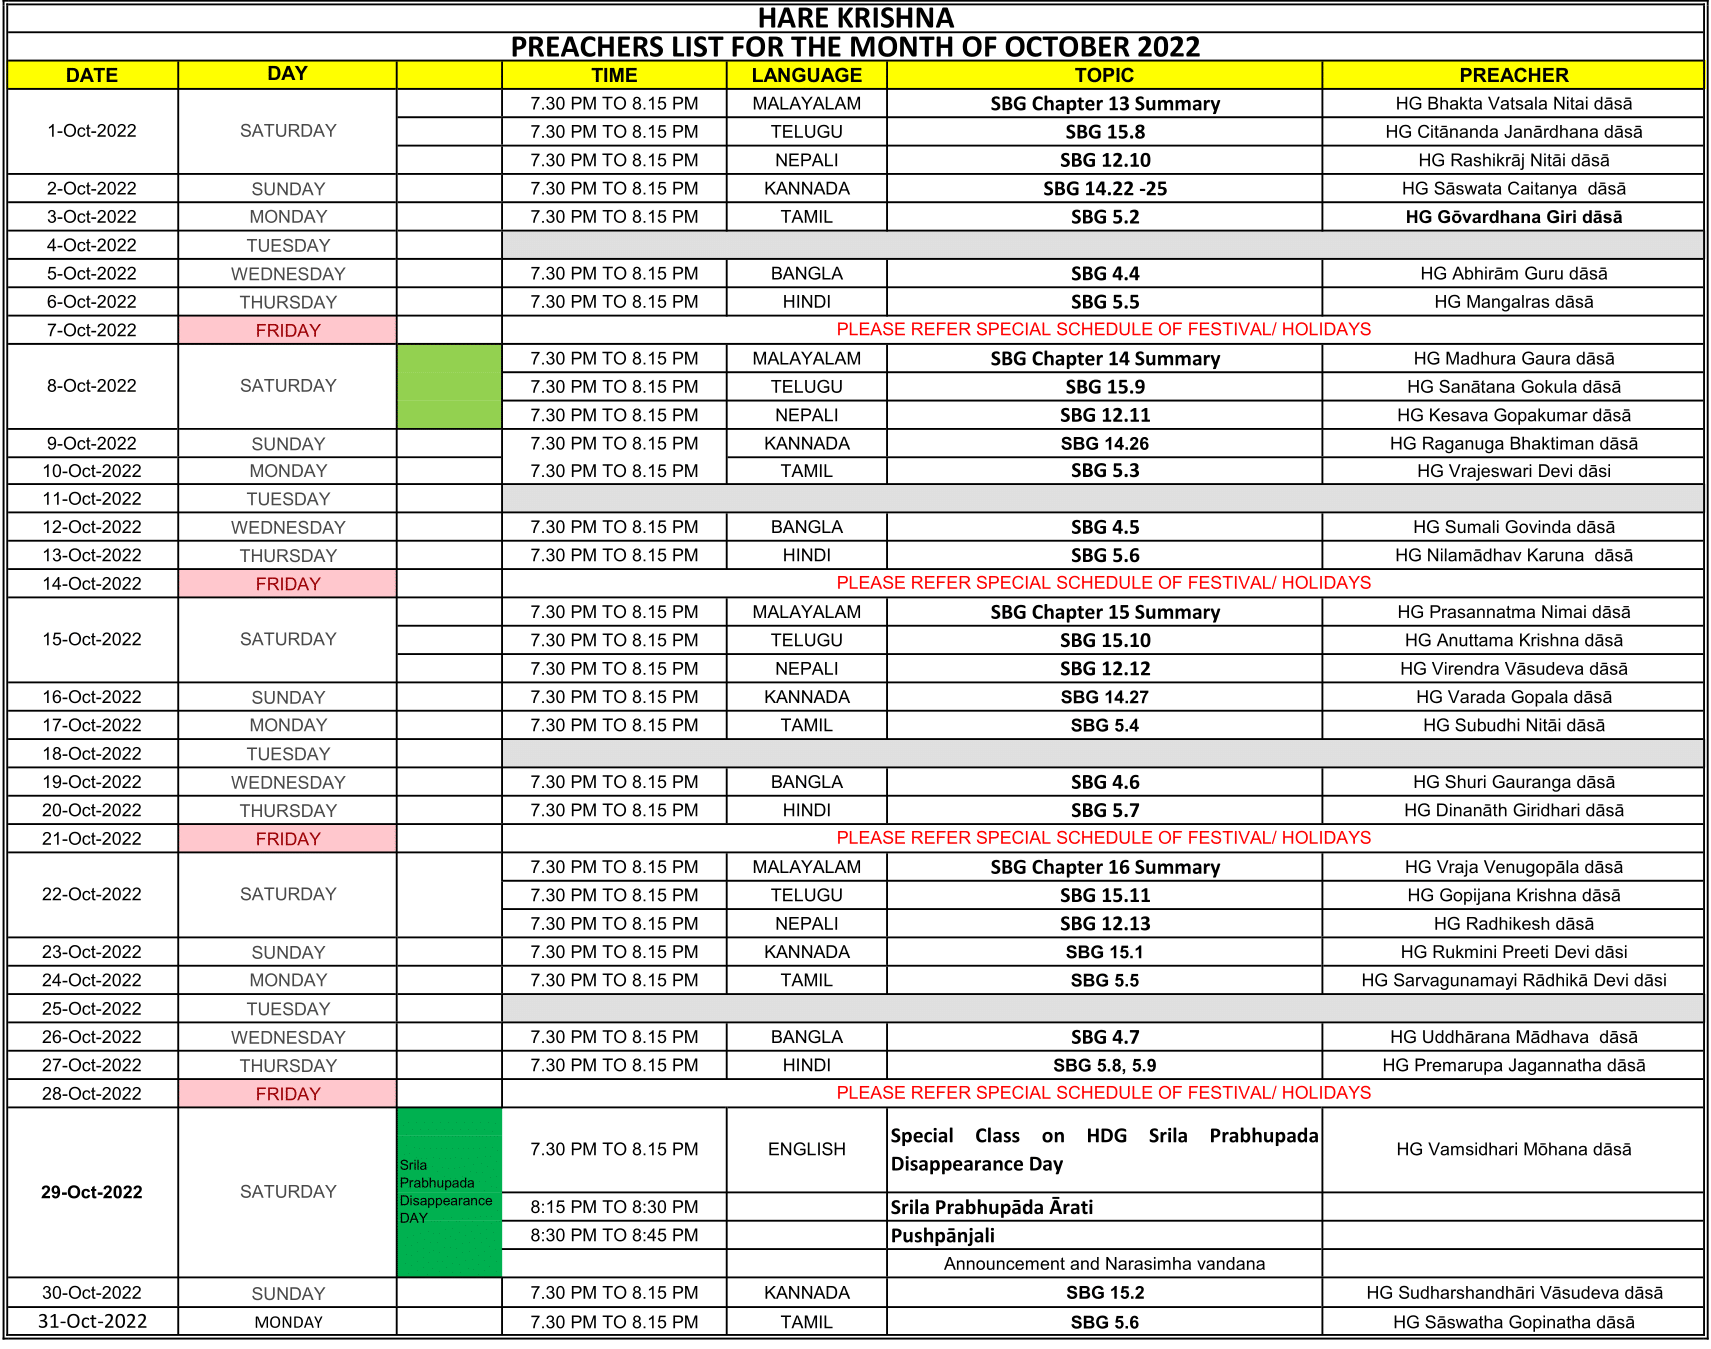
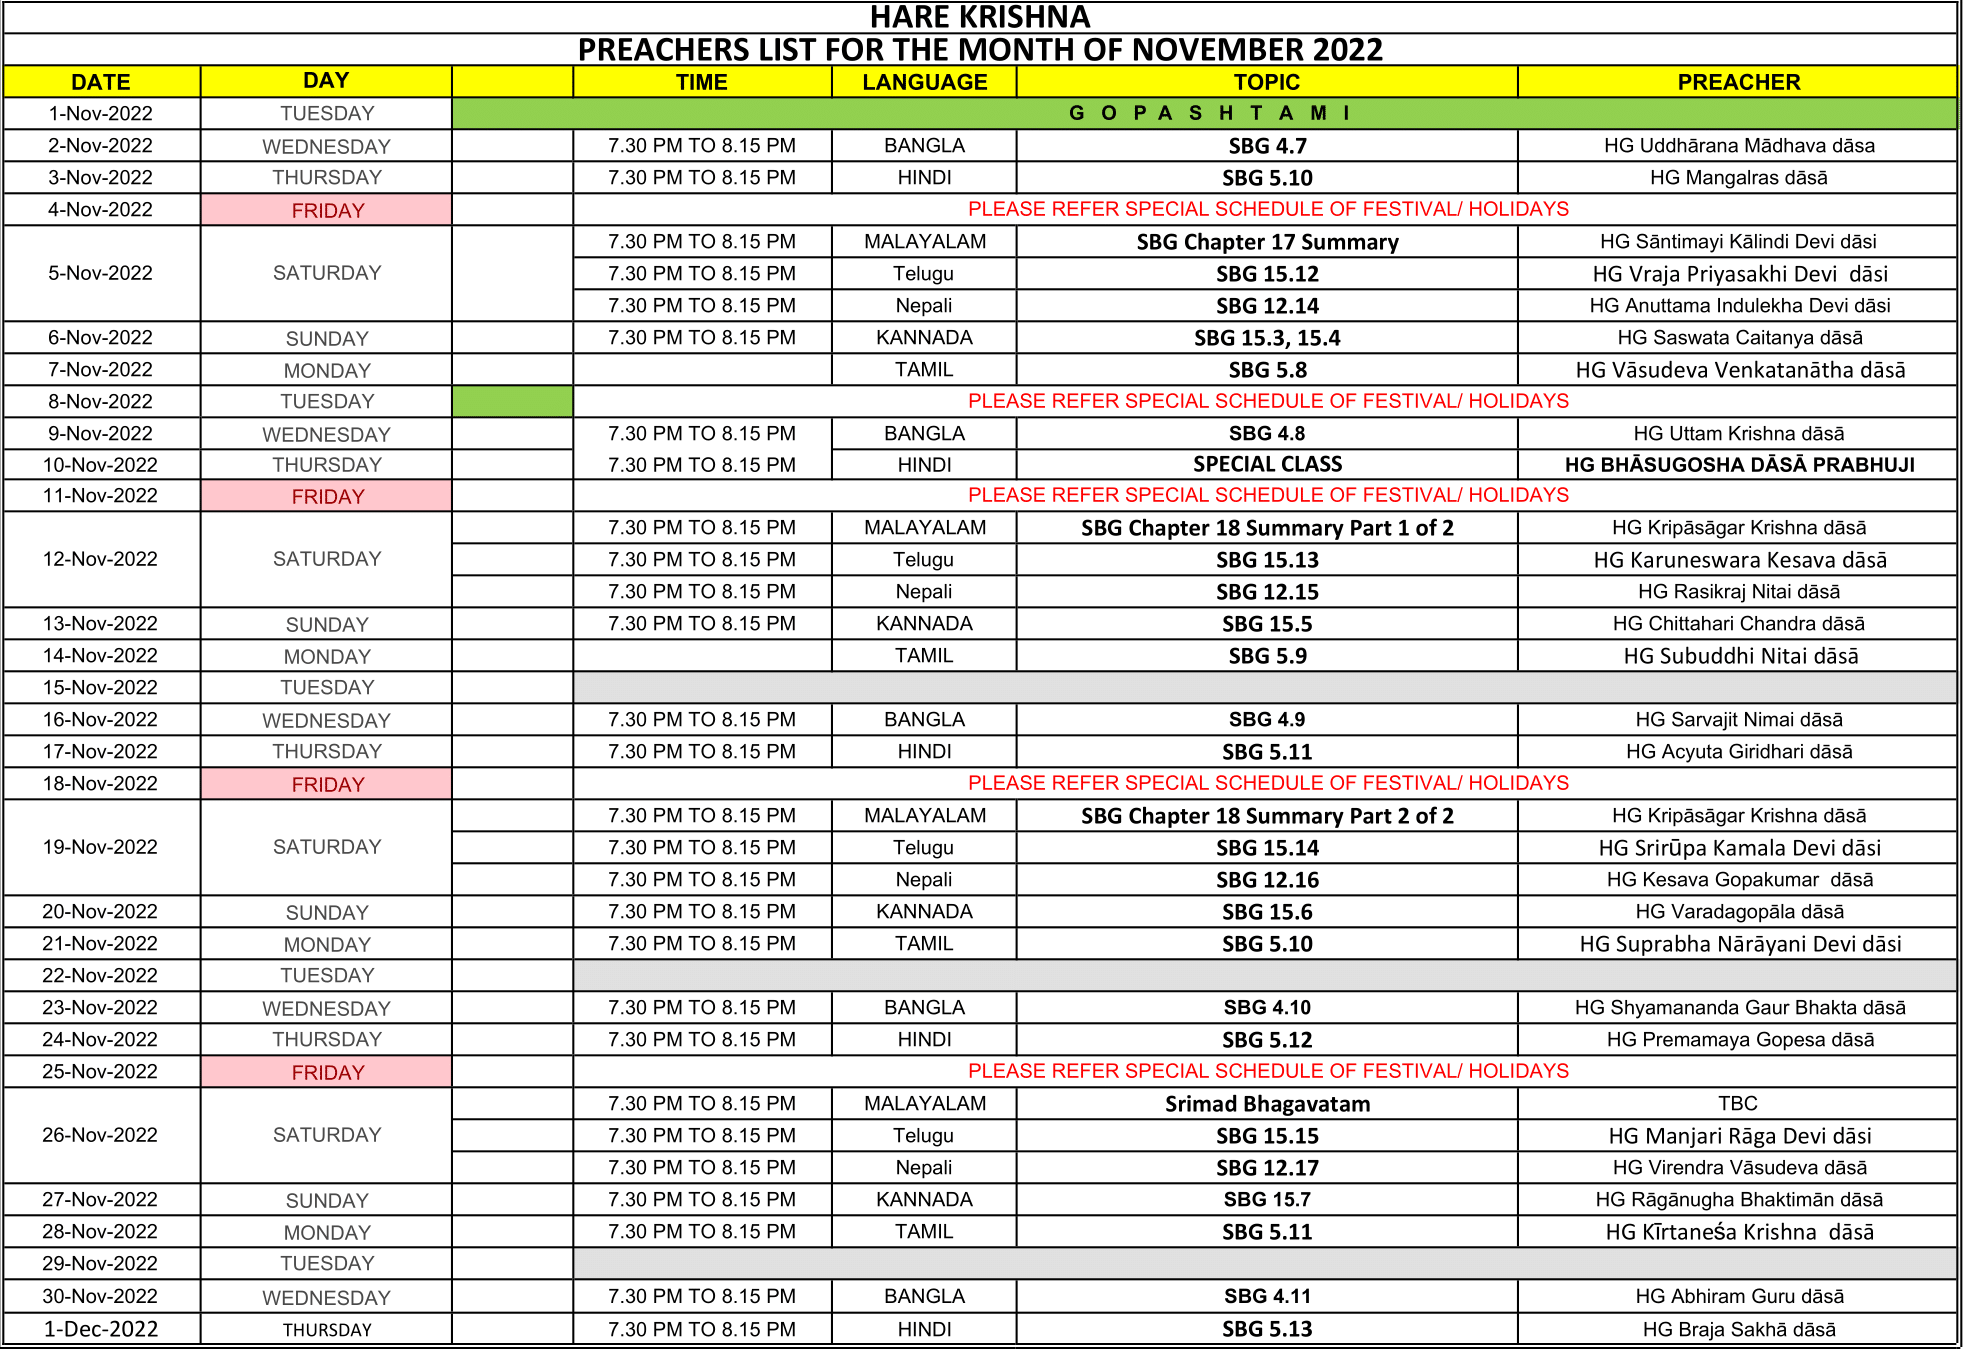
added new month list

diff --git a/schedule-festival.html b/schedule-festival.html
@@ -1,0 +1,295 @@
+<!DOCTYPE html>
+<html lang="en">
+  <head>
+    <meta charset="utf-8" />
+    <title>Schedule</title>
+    <meta content="width=device-width, initial-scale=1.0" name="viewport" />
+    <meta content="" name="keywords" />
+    <meta content="" name="description" />
+
+    <!-- Favicon -->
+    <link href="img/iskcon-fav-icon.png" rel="icon" />
+
+    <!-- Google Web Fonts -->
+    <link rel="preconnect" href="https://fonts.googleapis.com" />
+    <link rel="preconnect" href="https://fonts.gstatic.com" crossorigin />
+    <link
+      href="https://fonts.googleapis.com/css2?family=Open+Sans:wght@400;500&family=Roboto:wght@500;700;900&display=swap"
+      rel="stylesheet"
+    />
+    <link
+      href="https://fonts.googleapis.com/css?family=Dancing+Script:regular,500,600,700"
+      rel="stylesheet"
+    />
+    <!-- Icon Font Stylesheet -->
+    <link
+      href="https://cdnjs.cloudflare.com/ajax/libs/font-awesome/5.10.0/css/all.min.css"
+      rel="stylesheet"
+    />
+    <link
+      href="https://cdn.jsdelivr.net/npm/bootstrap-icons@1.4.1/font/bootstrap-icons.css"
+      rel="stylesheet"
+    />
+
+    <!-- Libraries Stylesheet -->
+    <link href="lib/animate/animate.min.css" rel="stylesheet" />
+    <link href="lib/owlcarousel/assets/owl.carousel.min.css" rel="stylesheet" />
+    <link href="lib/lightbox/css/lightbox.min.css" rel="stylesheet" />
+
+    <!-- Customized Bootstrap Stylesheet -->
+    <link href="css/bootstrap.min.css" rel="stylesheet" />
+
+    <!-- Template Stylesheet -->
+    <link href="css/style.css" rel="stylesheet" />
+  </head>
+
+  <body>
+    <!-- Spinner Start -->
+    <div
+      id="spinner"
+      class="show bg-white position-fixed translate-middle w-100 vh-100 top-50 start-50 d-flex align-items-center justify-content-center"
+    >
+      <div
+        class="spinner-border text-primary"
+        style="width: 3rem; height: 3rem"
+        role="status"
+      >
+        <span class="sr-only">Loading...</span>
+      </div>
+    </div>
+    <!-- Spinner End -->
+
+    <!-- Navbar Start -->
+    <nav class="navbar navbar-expand-lg bg-white navbar-light sticky-top p-0">
+      <a
+        href="index.html"
+        class="navbar-brand d-flex align-items-center border-end px-4 px-lg-5"
+      >
+        <img
+          src="img\iskcon-fav-icon.png"
+          style="height: 35px; width: 35px"
+        />&nbsp;
+        <h2 class="m-0 text-primary">ISKCON Bahrain</h2>
+      </a>
+      <button
+        type="button"
+        class="navbar-toggler me-4"
+        data-bs-toggle="collapse"
+        data-bs-target="#navbarCollapse"
+      >
+        <span class="navbar-toggler-icon"></span>
+      </button>
+      <div class="collapse navbar-collapse" id="navbarCollapse">
+        <div class="navbar-nav ms-auto p-4 p-lg-0">
+          <a href="iskcon.html" class="nav-item nav-link">about</a>
+          <a href="community.html" class="nav-item nav-link">Community</a>
+
+          <div class="nav-item dropdown">
+            <a
+              href="#"
+              class="nav-link dropdown-toggle"
+              data-bs-toggle="dropdown"
+              >Vedic Study</a
+            >
+            <div class="dropdown-menu bg-light m-0">
+              <a href="vedic.html" class="dropdown-item">For Adults</a>
+              <a href="youth.html" class="dropdown-item">For Youth</a>
+            </div>
+          </div>
+
+          <div class="nav-item dropdown">
+            <a
+              href="#"
+              class="nav-link dropdown-toggle"
+              data-bs-toggle="dropdown"
+              >Events</a
+            >
+            <div class="dropdown-menu bg-light m-0">
+              <a href="festival.html" class="dropdown-item">Festival</a>
+              <a href="mantra.html" class="dropdown-item"
+                >Meditation and Mantra</a
+              >
+            </div>
+          </div>
+
+          <!-- <a href="gallery.html" class="nav-item nav-link">Gallery</a> -->
+          <a href="donation.html" class="nav-item nav-link"
+            >Voluntary Service</a
+          >
+          <a href="contact.html" class="nav-item nav-link">Contact</a>
+        </div>
+      </div>
+    </nav>
+    <!-- Navbar End -->
+
+    <!-- Page Header Start -->
+    <div
+      class="container-fluid page-header py-5 mb-5"
+      style="
+        background: rgb(255, 255, 255);
+        background: linear-gradient(
+          174deg,
+          rgba(255, 255, 255, 1) 27%,
+          rgba(247, 201, 115, 1) 100%
+        );
+      "
+    >
+      <div class="container py-3">
+        <h1 class="display-3 mb-3 animated slideInDown" style="color: #ff6100">
+          Vedic Knowledge for Adults
+        </h1>
+      </div>
+    </div>
+    <!-- Page Header End -->
+
+    <!-- About Start -->
+    <div class="container-fluid bg-light overflow-hidden my-5 px-lg-0">
+      <div class="container about px-lg-0">
+        <div class="row g-0 mx-lg-0">
+          <div
+            class="ps-lg-0 wow fadeIn"
+            data-wow-delay="0.1s"
+            style="min-height: 1900px"
+          >
+            <div class="position-relative h-100">
+              <img
+                class="position-absolute img-fluid"
+                src="img/calendar/now/list-fest.png"
+                style="object-fit: contain"
+                alt=""
+              />
+            </div>
+          </div>
+          </div>
+        </div>
+      </div>
+    </div>
+    <!-- About End -->
+
+     <!-- Footer Start -->
+    <div
+      class="container-fluid bg-dark text-body footer mt-5 pt-5 wow fadeIn"
+      data-wow-delay="0.1s"
+    >
+      <div class="container py-3">
+        <div class="row g-6">
+          <div class="col-lg-4 col-md-6">
+            <h5 class="text-white mb-4">Location</h5>
+            <p class="mb-2">
+              <i class="fa fa-map-marker-alt me-3"></i>Segaya, Bahrain
+            </p>
+            <p class="mb-2">
+              <i class="fa fa-envelope me-3"></i>info@iskconbahrain.com
+            </p>
+            <div class="d-flex pt-2" style="padding-left: 20px">
+              <a
+              class="btn btn-square btn-outline-light btn-social"
+              href="https://wa.me/97336641569"
+              ><i class="fab fa-whatsapp"></i
+            ></a>
+              <a
+                class="btn btn-square btn-outline-light btn-social"
+                href="https://www.facebook.com/people/Radha-Bahrainiswar/100081074853038/"
+                ><i class="fab fa-facebook-f"></i></a
+              >&nbsp;
+              <a
+                class="btn btn-square btn-outline-light btn-social"
+                href="https://www.instagram.com/iskcon.balaramdesh/"
+                ><i class="fab fa-instagram"></i></a
+              >&nbsp;
+              <a
+                class="btn btn-square btn-outline-light btn-social"
+                href="https://www.youtube.com/channel/UCLvQC0gq1T2gNW5XI6DT11w"
+                ><i class="fab fa-youtube"></i
+              ></a>
+            </div>
+          </div>
+          <div class="col-lg-4 col-md-6">
+            <h5 class="text-white mb-4">Quick Links</h5>
+            <a class="btn btn-link" href="iskcon.html">About Us</a>
+            <a class="btn btn-link" href="community.html">Community</a>
+            <a class="btn btn-link" href="donation.html">Donation</a>
+            <a class="btn btn-link" href="contact.html">Contact</a>
+          </div>
+          <div class="col-lg-4 col-md-6">
+            <h5 class="text-white mb-4">Gallery</h5>
+            <div class="row g-2">
+              <div class="col-4">
+                <img
+                  class="img-fluid rounded"
+                  src="img/gallery/IMG_3542.JPG"
+                  alt=""
+                />
+              </div>
+              <div class="col-4">
+                <img
+                  class="img-fluid rounded"
+                  src="img/gallery/IMG_4030.JPG"
+                  alt=""
+                />
+              </div>
+              <div class="col-4">
+                <img
+                  class="img-fluid rounded"
+                  src="img/gallery/IMG_4153.JPG"
+                  alt=""
+                />
+              </div>
+              <div class="col-4">
+                <img
+                  class="img-fluid rounded"
+                  src="img/gallery/IMG_4174.JPG"
+                  alt=""
+                />
+              </div>
+              <div class="col-4">
+                <img
+                  class="img-fluid rounded"
+                  src="img/gallery/IMG_4197.JPG"
+                  alt=""
+                />
+              </div>
+              <div class="col-4">
+                <img
+                  class="img-fluid rounded"
+                  src="img/gallery/IMG_4282.JPG"
+                  alt=""
+                />
+              </div>
+            </div>
+          </div>
+        </div>
+      </div>
+      <div class="container">
+        <div class="copyright">
+          <div class="row">
+            <div class="col-md-6 text-center text-md-start mb-3 mb-md-0">
+              &copy; <a href="#">ISKCON Bahrain</a>, All Right Reserved.
+            </div>
+          </div>
+        </div>
+      </div>
+    </div>
+    <!-- Footer End -->
+    <!-- Back to Top -->
+    <a
+      href="#"
+      class="btn btn-lg btn-primary btn-lg-square rounded-circle back-to-top"
+      ><i class="bi bi-arrow-up"></i
+    ></a>
+
+    <!-- JavaScript Libraries -->
+    <script src="https://code.jquery.com/jquery-3.4.1.min.js"></script>
+    <script src="https://cdn.jsdelivr.net/npm/bootstrap@5.0.0/dist/js/bootstrap.bundle.min.js"></script>
+    <script src="lib/wow/wow.min.js"></script>
+    <script src="lib/easing/easing.min.js"></script>
+    <script src="lib/waypoints/waypoints.min.js"></script>
+    <script src="lib/counterup/counterup.min.js"></script>
+    <script src="lib/owlcarousel/owl.carousel.min.js"></script>
+    <script src="lib/isotope/isotope.pkgd.min.js"></script>
+    <script src="lib/lightbox/js/lightbox.min.js"></script>
+
+    <!-- Template Javascript -->
+    <script src="js/main.js"></script>
+  </body>
+</html>
